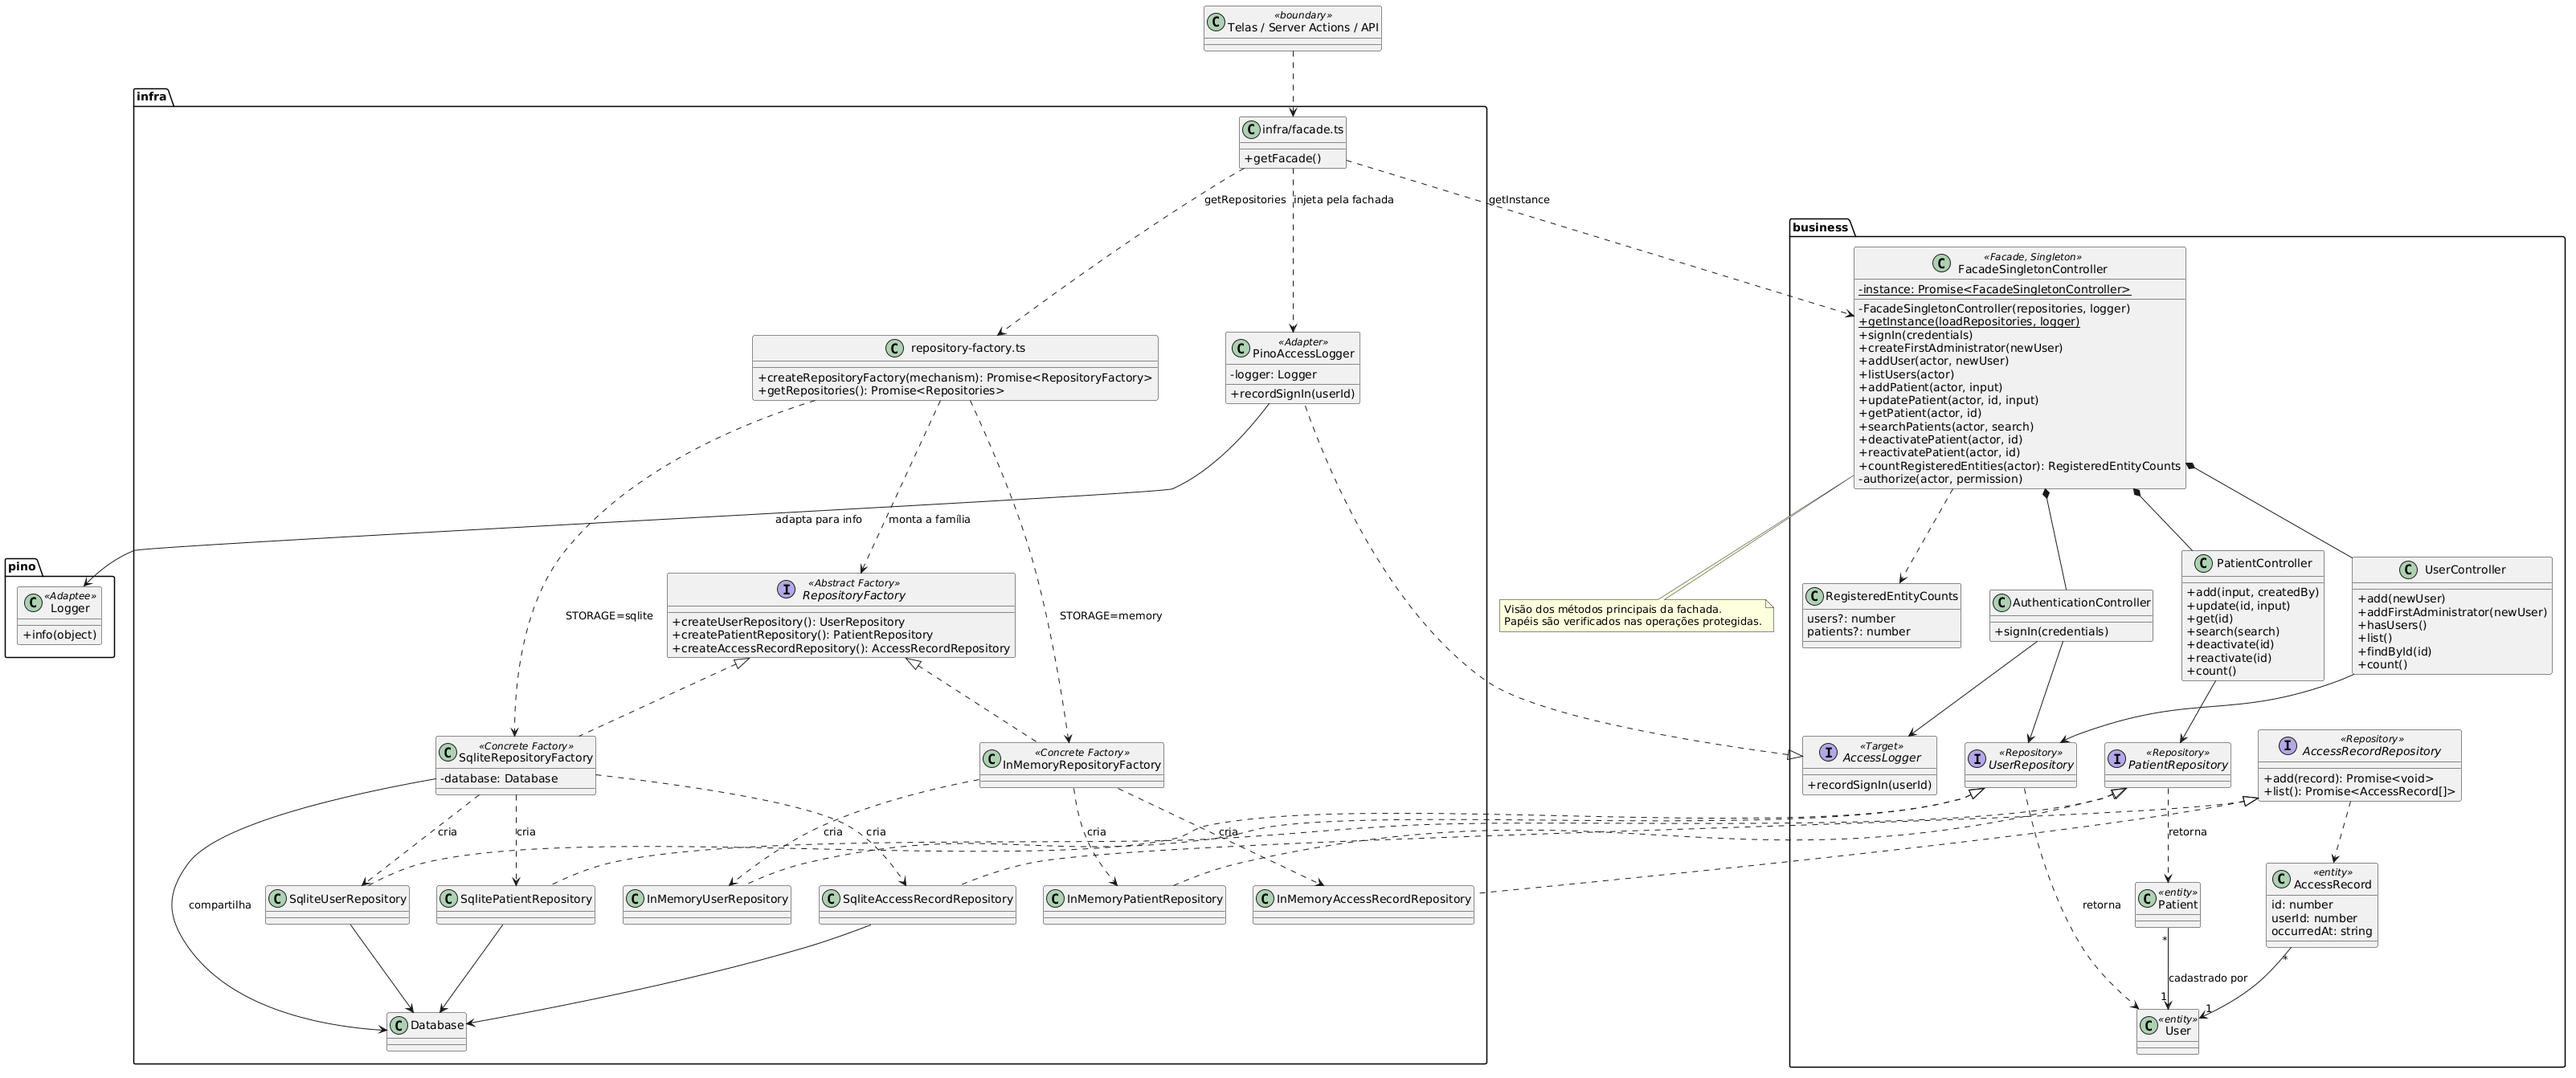
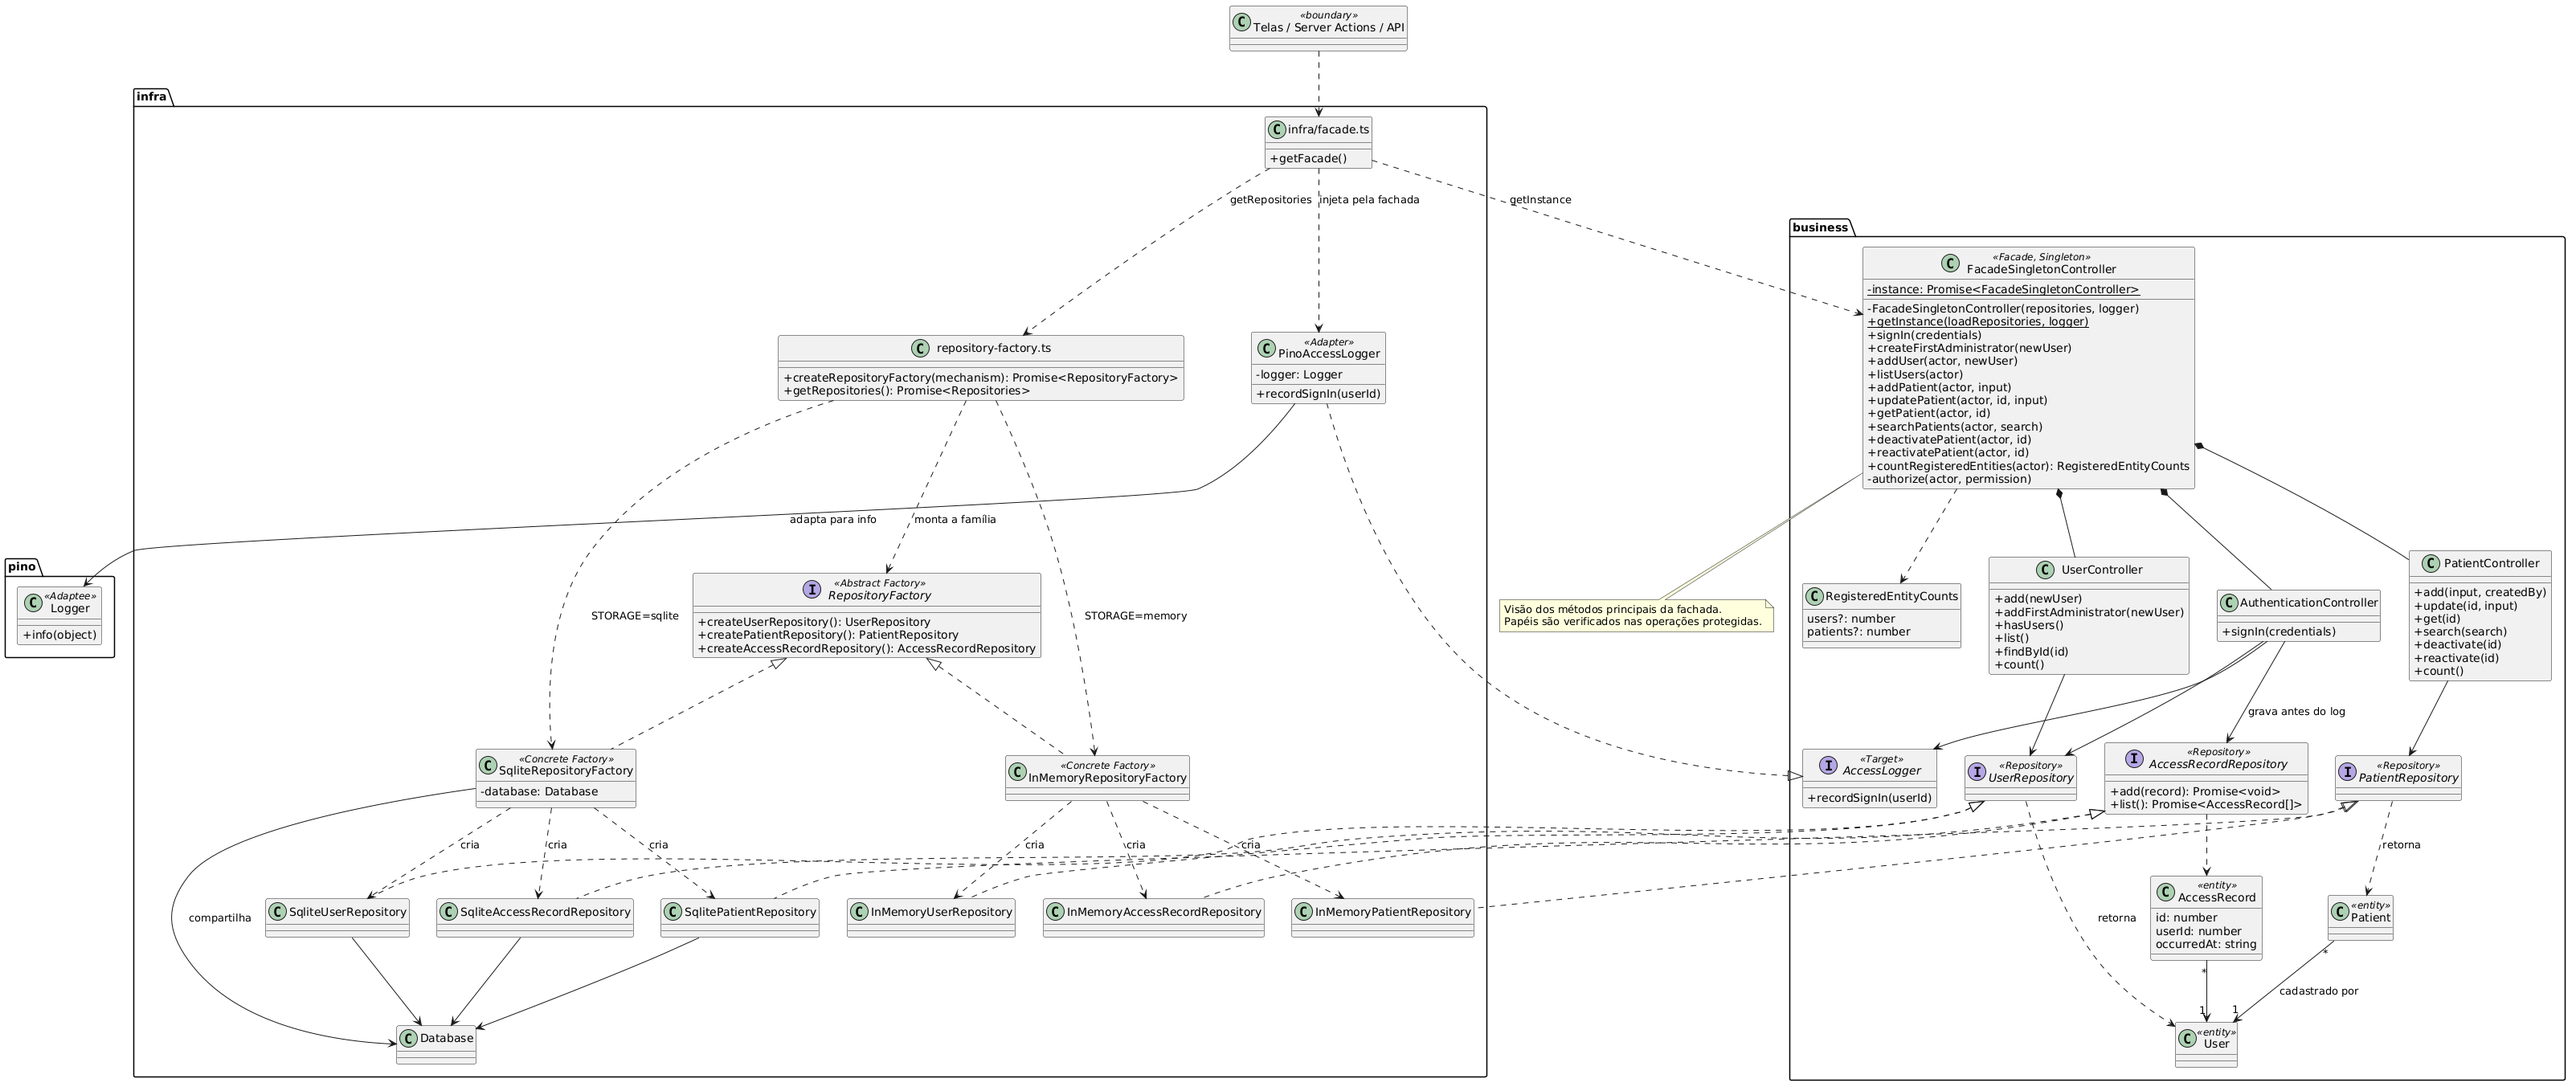
docs(auth): document persistent access tracking and update diagrams

diff --git a/docs/04-casos-de-uso/README.md b/docs/04-casos-de-uso/README.md
@@ -30,9 +30,11 @@ flowchart LR
         UC11(["UC11 Reagendar consulta"])
         UC13(["UC13 Gerenciar comunicações e lembretes"])
         UC03(["UC03 Registrar atendimento"])
+        UC15(["UC15 Gerar relatório de acessos — planejado"])
         UC14(["UC14 Exportar paciente em FHIR"])
     end
 
+    Administrador --- UC15
     Administrador --- UC05
     Administrador --- UC06
     Administrador --- UC12
@@ -74,7 +76,7 @@ Quem acessa cada caso de uso segue a matriz de permissões do NF-SEG-02: o Admin
 | UC01 Cadastrar paciente | Recepcionista, Administrador | RF01, RF11, NF-PRI-01 | Implementado (`/patients/new`, `POST /api/patients`) | [uc01-cadastrar-paciente.md](uc01-cadastrar-paciente.md) |
 | UC02 Agendar consulta | Recepcionista, Paciente | RF03, RF05 | Só na visão | — |
 | UC03 Registrar atendimento | Médico | RF04 | Só na visão | — |
-| UC04 Autenticar | Todos | RF06, NF-SEG-02, NF-SEG-03 | Implementado (`/login`, `/api/auth/session`) | — |
+| UC04 Autenticar | Todos | RF06, RF17, NF-SEG-02, NF-SEG-03, NF-SEG-04 | Implementado (`/login`, `/api/auth/session`) | — |
 | UC05 Cadastrar usuário | Administrador | RF07, RF08, RF09, RF16, NF-SEG-01, NF-MAN-01, NF-CON-01 | Implementado (`/users/new`, `/setup`, `POST /api/users`, `POST /api/auth/first-administrator`) | [uc05-cadastrar-usuario.md](uc05-cadastrar-usuario.md) |
 | UC06 Listar usuários | Administrador | RF10, NF-SEG-01, NF-MAN-01, NF-CON-01 | Implementado (`/users`, `GET /api/users`) | — |
 | UC07 Editar paciente | Recepcionista, Administrador | RF11, RF12 | Implementado (`/patients/<id>`, `PUT /api/patients/<id>`) | [uc07-editar-paciente.md](uc07-editar-paciente.md) |
@@ -84,8 +86,11 @@ Quem acessa cada caso de uso segue a matriz de permissões do NF-SEG-02: o Admin
 | UC11 Reagendar consulta | Recepcionista, Paciente | RF03, RF05 | Só na visão | — |
 | UC12 Gerenciar profissionais e clínica | Administrador | RF02 | Só na visão | — |
 | UC13 Gerenciar comunicações e lembretes | Serviço de mensagens | RF03, RF05 | Só na visão | — |
+| UC15 Gerar relatório de acessos | Administrador | RF18 (change `relatorio-de-acessos`) | Planejado para a próxima branch | — |
 | UC14 Exportar paciente em FHIR | Sistema de saúde externo | NF-INT-01 | Só na visão | — |
 
 As telas e as rotas de API chamam a camada de negócio pela fachada `FacadeSingletonController` (`src/modules/facade/`), que verifica a permissão do papel antes de cada operação. As telas citadas estão em [`06-interface/`](../06-interface/README.md).
 
 **Regra:** depois da primeira entrega, IDs de casos de uso **não** são renumerados nem reaproveitados.
+
+**UC04 — Registro de acesso (RF17):** depois de validar as credenciais, o controle persiste ID do usuário e data/hora UTC antes do log e da abertura da sessão. Recusas não gravam acessos; falhas de persistência exibem indisponibilidade (API 503, `STORAGE_UNAVAILABLE`) sem abrir sessão. O Adapter Pino permanece independente: uma exceção síncrona do log não apaga o registro nem impede o login. O cadastro inicial do administrador não conta como acesso; um registro indica credenciais aceitas, mesmo se a criação posterior do cookie falhar.

diff --git a/docs/07-arquitetura/adr/0010-adapter-de-log-de-acessos.md b/docs/07-arquitetura/adr/0010-adapter-de-log-de-acessos.md
@@ -27,5 +27,13 @@ O controle registra uma vez após verificar a senha. Recusas não geram evento d
 
 - Chamar Pino ou `console` no controle viola o isolamento da camada business; uma interface própria permite substituir o fornecedor e usar um espião nos testes.
 - O contrato recebe somente um ID, impedindo que o controle envie o usuário inteiro ou credenciais ao Adapter.
-- A saída stdout depende da coleta de logs do ambiente. Persistência consultável e relatórios de estatísticas são outra etapa da sprint.
+- A saída stdout depende da coleta de logs do ambiente. A persistência consultável é independente da saída do Pino, conforme o complemento abaixo; os relatórios serão implementados na próxima etapa.
 - Testes verificam o JSON produzido pelo Pino real, a integração pela fachada, as recusas de autenticação e a continuidade quando a emissão lança uma exceção.
+
+## Complemento: dados consultáveis para estatísticas (RF17)
+
+O log Pino não é a fonte de relatórios. `AccessRecordRepository` é um contrato de business com implementações RAM e SQLite selecionadas pela Abstract Factory. A tabela `access_records` guarda apenas ID do registro, FK do usuário e horário UTC; a migração é gerada por Drizzle.
+
+A autenticação persiste o acesso antes de chamar o Adapter e abrir sessão. Erros do banco são convertidos em `AccessRecordPersistenceError`: a API responde 503 e o formulário informa indisponibilidade, sem criar sessão. A falha síncrona apenas no log mantém a autenticação e o registro. Essa separação evita perder estatísticas quando o coletor de stdout não existe. Um acesso representa credenciais aceitas, e não garante que o cookie posterior foi criado.
+
+A consulta do Repository fornece registros à próxima etapa: relatórios HTML/CSV por período, especificados na change `relatorio-de-acessos`, ainda sem implementação nesta branch.

diff --git a/docs/08-projeto.md b/docs/08-projeto.md
@@ -186,6 +186,7 @@ classDiagram
     SqliteRepositoryFactory ..> SqliteAccessRecordRepository : cria
     AccessRecordRepository <|.. InMemoryAccessRecordRepository
     AccessRecordRepository <|.. SqliteAccessRecordRepository
+    AuthenticationController --> AccessRecordRepository : persiste acesso
     SqliteRepositoryFactory ..> SqliteUserRepository : cria
     SqliteRepositoryFactory ..> SqlitePatientRepository : cria
     FacadeSingletonController ..> Repositories : recebe
@@ -613,6 +614,3 @@ classDiagram
 ```
 
 A montagem em `infra/facade.ts` injeta o Adapter pela fachada. O controle transmite somente o ID do usuário; o Adapter produz `USER_SIGNED_IN` e Pino acrescenta o horário. O log vai para stdout e não garante persistência para relatórios. Falhas síncronas de emissão não recusam credenciais válidas (NF-SEG-04, [ADR-0010](07-arquitetura/adr/0010-adapter-de-log-de-acessos.md)).
-
-
-Nesta camada, o Repository dos acessos já pode ser criado pelas fábricas e testado isoladamente. Sua utilização durante a autenticação será integrada na próxima camada da stack.

diff --git a/docs/05-analise.md b/docs/05-analise.md
@@ -21,6 +21,9 @@ classDiagram
 
     class Usuario { <<entity>> }
     class Papel { <<entity>> }
+    class RegistroDeAcesso { <<entity>> }
+    ControleAutenticacao ..> RegistroDeAcesso : registra credenciais aceitas
+    RegistroDeAcesso "*" --> "1" Usuario
 
     Usuario "*" --> "1" Papel
 
